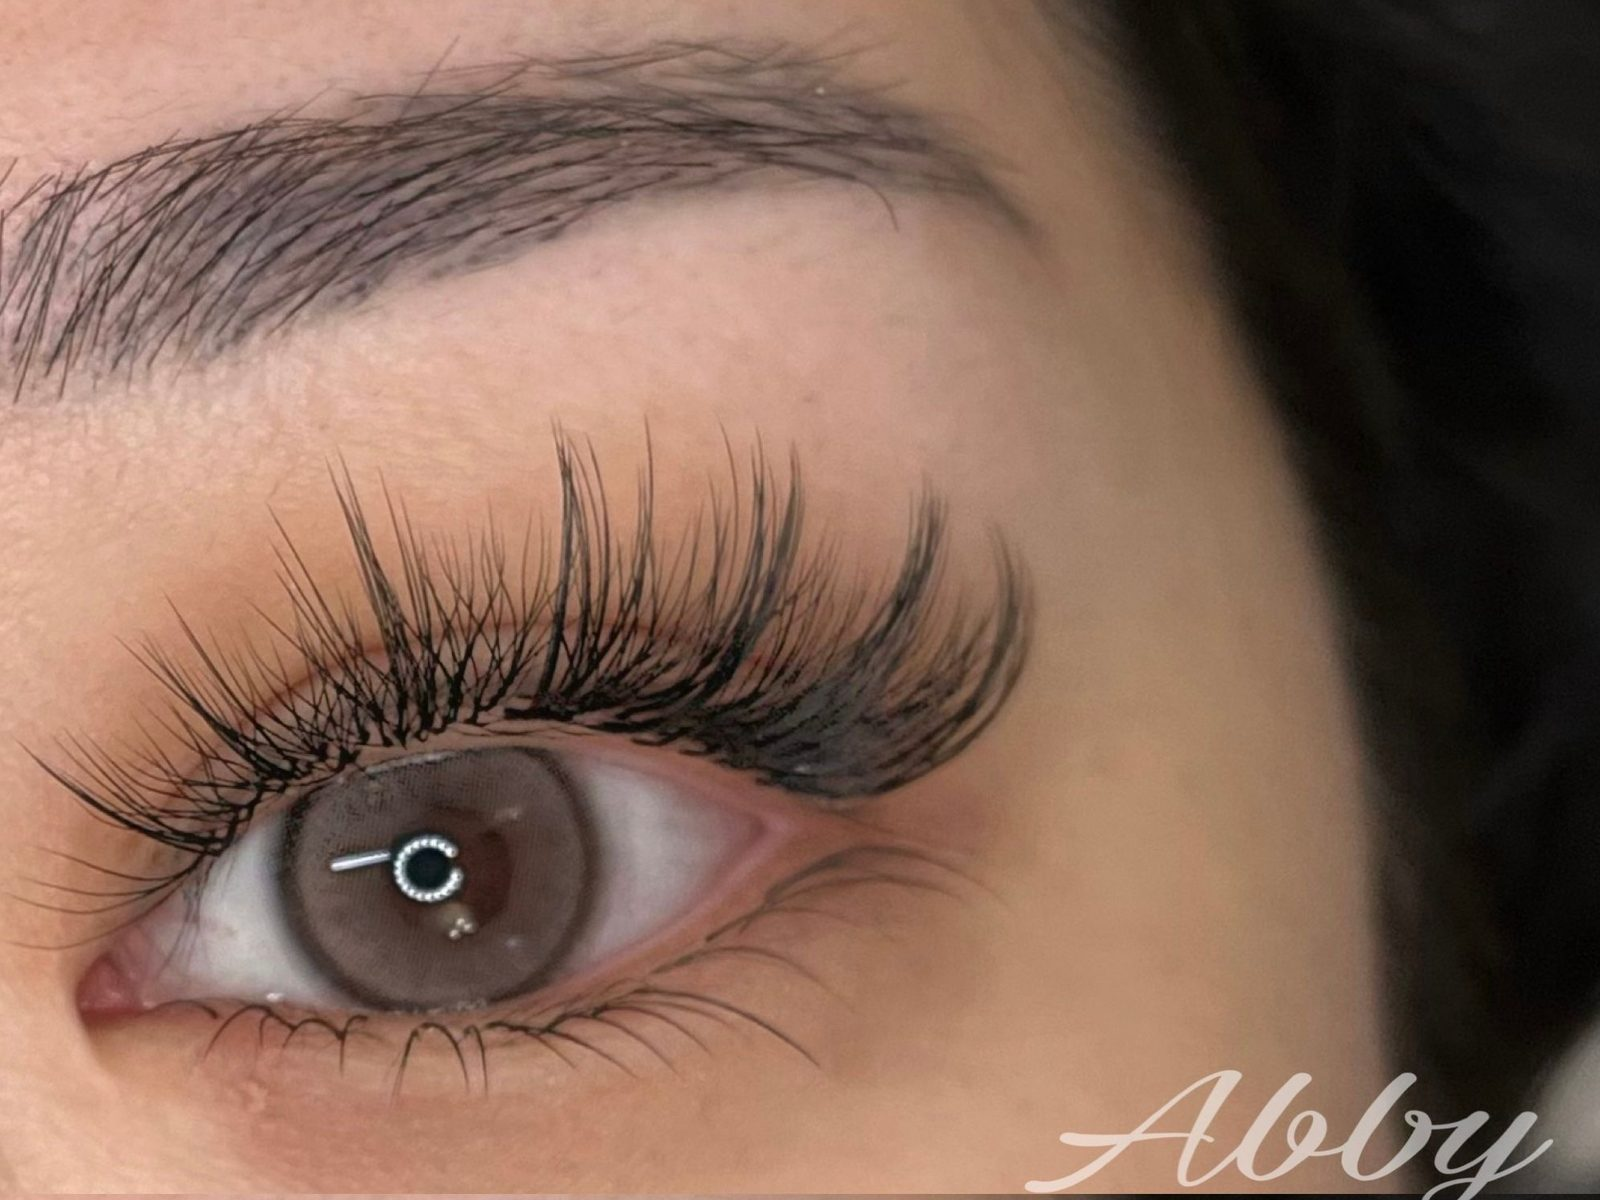
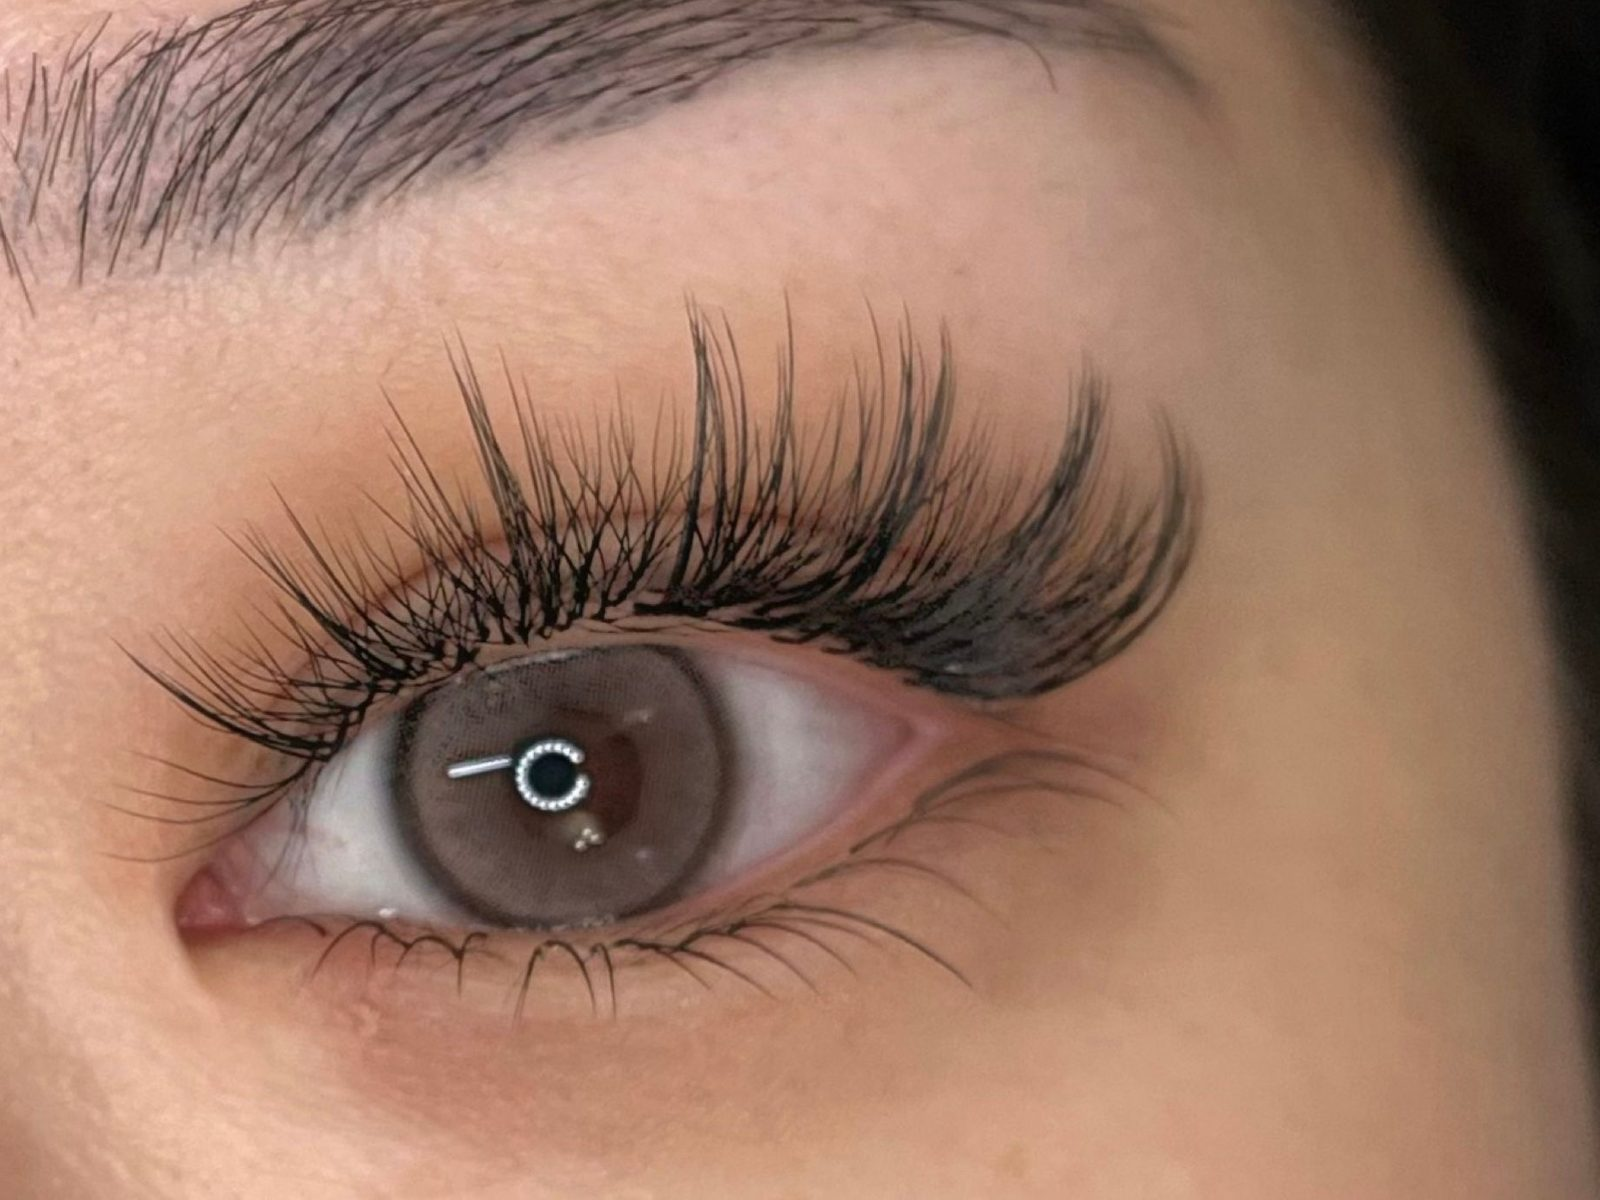
Fix service-slot crops, watermark re-crops, video pause control, manifest cleanup

diff --git a/src/data/photos.ts b/src/data/photos.ts
@@ -24,12 +24,9 @@ const nail = (n: string, source: string, en: string, zh: string, extra: Extra = 
 
 export const photos: Photo[] = [
   lash('classic-natural', '单根自然.jpg', 'Japanese classic natural lash extensions on a brown eye, Burwood', '棕色眼睛上的日式单根自然款嫁接睫毛，细密整齐，Burwood'),
-  lash('classic-natural-2', '单根自然2.JPG', 'Japanese classic natural lash extensions on a hazel eye, fine and evenly spaced', '榛色眼睛上的日式单根自然款嫁接睫毛，纤细均匀'),
   lash('classic-full-bottom', '单根浓+下睫毛.JPG', 'Japanese classic full lash extensions with dense bottom lashes on a brown eye, Burwood', '棕色眼睛上的日式单根浓密款嫁接睫毛，搭配浓密下睫毛，Burwood'),
-  lash('classic-colour-bottom', '单根自然+彩色+下睫毛.JPG', 'Natural classic lash extensions with a blue accent lash at the outer corner and bottom lashes', '日式单根自然款嫁接睫毛，眼尾点缀蓝色睫毛，搭配下睫毛'),
   lash('hybrid-natural', '轻盈-自然.jpg', 'Light hybrid natural lash extensions with soft fanned tips on a grey-green eye, Burwood', '灰绿色眼睛上的开花轻盈自然款嫁接睫毛，睫毛尖柔和散开，Burwood'),
   lash('hybrid-full', '开花-浓密.JPG', 'Hybrid full volume lash extensions, long and dense with a fanned finish, Burwood', '开花浓密款嫁接睫毛，纤长浓密、根根散开，Burwood'),
-  lash('hybrid-full-2', '开花-浓密2.JPG', 'Hybrid full volume lash extensions on a light brown eye, sweeping toward the outer corner', '浅棕色眼睛上的开花浓密款嫁接睫毛，向眼尾自然拉长'),
   lash('hybrid-full-bottom', '开花-浓密+下睫毛.JPG', 'Hybrid full volume lash extensions with fine bottom lashes on a dark brown eye', '深棕色眼睛上的开花浓密款嫁接睫毛，搭配纤细下睫毛', { ratio: '4:3' }),
   lash('styled-fairy', '造型款-仙子.JPG', 'Fairy styled lash set with a few long wispy spikes on top, Burwood', '仙子造型款嫁接睫毛，上睫毛间插几根纤长尖翘的长毛，Burwood'),
   lash('styled-layered', '造型款-单根层次.JPG', 'Layered classic styled lash set, fine single lashes in staggered lengths', '单根层次造型款嫁接睫毛，纤细单根长短错落'),
@@ -38,10 +35,10 @@ export const photos: Photo[] = [
   lash('styled-manga', '造型款-漫画.JPG', 'Manga styled lash set with spiky, defined lash clusters on a hazel eye', '榛色眼睛上的漫画造型款嫁接睫毛，睫毛簇分明、根根尖翘', { box: { left: 0, top: 0, width: 0.64, height: 0.5 } }),
   lash('styled-liner', '造型款-眼线加浓.JPG', 'Liner-effect thickened styled lash set, dense and dark along the lash line, on a blue-grey eye', '蓝灰色眼睛上的眼线加浓造型款嫁接睫毛，睫毛根部浓黑如眼线'),
   lash('styled-liner-2', '造型款-眼线加浓2.JPG', 'Liner-effect thickened styled lash set with dense lashes and defined brows, brown eye', '棕色眼睛上的眼线加浓造型款嫁接睫毛，睫毛浓密，眉形清晰'),
-  lash('styled-liner-bottom', '造型款-眼线加浓+下睫毛.JPG', 'Liner-effect styled lash set with dense top and bottom lashes on a dark brown eye', '深棕色眼睛上的眼线加浓造型款嫁接睫毛，上下睫毛浓密', { box: { left: 0.02, top: 0, width: 0.8, height: 0.52 } }),
+  lash('styled-liner-bottom', '造型款-眼线加浓+下睫毛.JPG', 'Liner-effect styled lash set with dense top and bottom lashes on a dark brown eye', '深棕色眼睛上的眼线加浓造型款嫁接睫毛，上下睫毛浓密', { box: { left: 0.08, top: 0.56, width: 0.68, height: 0.44 } }),
   lash('styled-sunflower', '造型款-太阳花+下睫毛.JPG', 'Sunflower styled lash set with radiating long lashes and bottom lashes', '太阳花造型款嫁接睫毛，长睫毛向外放射，搭配下睫毛'),
   lash('styled-pompom', '造型款-小绒花+下睫毛.JPG', 'Little pompom styled lash set with long, spiky wispy lashes, worn with a lilac face mask', '戴着淡紫色口罩的客人，小绒花造型款嫁接睫毛，睫毛纤长尖翘'),
-  lash('styled-bottom', '造型款+下睫毛.jpg', 'Styled lash set with long, flared top lashes and bottom lashes', '造型款嫁接睫毛，上睫毛纤长向外散开，搭配下睫毛', { box: { left: 0.06, top: 0, width: 0.92, height: 0.504 } }),
+  lash('styled-bottom', '造型款+下睫毛.jpg', 'Styled lash set with long, flared top lashes and bottom lashes', '造型款嫁接睫毛，上睫毛纤长向外散开，搭配下睫毛', { box: { left: 0.02, top: 0.55, width: 0.86, height: 0.45 } }),
   lash('styled-bottom-2', '造型款+下睫毛2.JPG', 'Styled lash set with spiky, dark top lashes and defined bottom lashes on a brown eye', '棕色眼睛上的造型款嫁接睫毛，上睫毛浓黑尖翘，下睫毛分明'),
   lash('styled-close', '造型款.JPG', 'Close-up of a styled lash set with long, dark, criss-crossed lashes on a green-brown eye', '绿棕色眼睛上的造型款嫁接睫毛特写，睫毛浓黑纤长、交错有致'),
   lash('selfie', '造型款.HEIC', "Client's face close-up showing dark, wispy styled lash extensions", '客人面部近景，展示深色纤长的造型款嫁接睫毛', { ratio: '3:4' }),
@@ -132,12 +129,21 @@ export const styledLooks: { photo: string; name: L10n }[] = [
   { photo: 'styled-close', name: { en: 'Styled close-up', zh: '造型款特写' } },
 ];
 
-export const servicePhotos: Record<string, { hero?: string; detail?: string; beforeAfter?: [string, string] }> = {
-  'lash-extensions': { hero: 'styled-mermaid-selfie', detail: 'hybrid-full-bottom' },
-  'lash-lift': { hero: 'lift-2', beforeAfter: ['lift-1', 'lift-3'] },
-  'gel-nails': { hero: 'nail-3406', detail: 'nail-2020' },
-  'handcrafted-nails': { hero: 'nail-8351', detail: 'nail-4630' },
-  'nail-extensions': { hero: 'nail-2112', detail: 'nail-6920' },
+/** Per service slot: manifest photo, optional object-position, optional literal aspect classes (default in ServicePage). */
+export interface ServiceSlots {
+  hero?: string; heroPos?: string; heroAspect?: string;
+  detail?: string; detailPos?: string; detailAspect?: string;
+  beforeAfter?: [string, string];
+}
+// Slots follow the master's ratio (4:3 lash, 3:4 nails shown 4:5) so no eye, nail or watermark is cropped. Literal classes so Tailwind sees them.
+const LASH = 'aspect-[4/3]';
+const NAIL = 'aspect-[4/5]';
+export const servicePhotos: Record<string, ServiceSlots> = {
+  'lash-extensions': { hero: 'styled-mermaid-selfie', heroAspect: NAIL, heroPos: '50% 0%', detail: 'hybrid-full-bottom', detailAspect: LASH },
+  'lash-lift': { hero: 'lift-2', heroAspect: LASH, beforeAfter: ['lift-1', 'lift-3'] },
+  'gel-nails': { hero: 'nail-3406', heroAspect: NAIL, detail: 'nail-2020', detailAspect: NAIL },
+  'handcrafted-nails': { hero: 'nail-8351', heroAspect: NAIL, heroPos: '50% 100%', detail: 'nail-4630', detailAspect: NAIL },
+  'nail-extensions': { hero: 'nail-2112', heroAspect: NAIL, heroPos: '50% 100%', detail: 'nail-6920', detailAspect: NAIL },
 };
 
 export const homeHero = 'selfie';

diff --git a/src/data/service-content.ts b/src/data/service-content.ts
@@ -19,7 +19,7 @@ export interface ServiceContent {
   intro: string;
   sections: Section[];
   faq: { q: string; a: string }[];
-  alt: { hero: string; detail: string };
+  alt?: { hero: string; detail: string }; // placeholder slots only (powder brows); photos use their manifest alt
 }
 
 const opt = (s: string, o: string) => {
@@ -156,10 +156,6 @@ const content: Record<string, Record<Lang, ServiceContent>> = {
         { q: 'I reacted to lash glue before. Can I still have extensions?', a: 'Tell Abby before booking so she can advise you. Abby doesn’t offer patch tests; after a significant reaction, extensions may not be right for you.' }, // OWNER-REVIEW
         CANCEL.en,
       ],
-      alt: {
-        hero: 'Close-up of a Japanese classic eyelash extension set applied by Abby at her Burwood studio',
-        detail: 'Abby isolating a single natural lash with tweezers while applying an extension',
-      },
     },
     zh: {
       title: '宝活 Burwood 嫁接睫毛 | Abby Eyelash 美睫',
@@ -236,10 +232,6 @@ const content: Record<string, Record<Lang, ServiceContent>> = {
         { q: '以前对睫毛胶过敏，还能做吗？', a: '请在预约前告诉 Abby，她会给你建议。Abby 不提供皮试；如果以前反应比较严重，嫁接睫毛可能不适合你。' }, // OWNER-REVIEW
         CANCEL.zh,
       ],
-      alt: {
-        hero: 'Abby 在 Burwood 工作室完成的日式单根嫁接睫毛近照',
-        detail: 'Abby 用镊子分离单根真睫毛并进行嫁接',
-      },
     },
   },
 
@@ -307,10 +299,6 @@ const content: Record<string, Record<Lang, ServiceContent>> = {
         { q: 'My lashes are short. Will a lift work?', a: 'Lashes need enough length to wrap onto the shield. Abby checks this at the start and will tell you honestly if a lift won’t show much.' },
         CANCEL.en,
       ],
-      alt: {
-        hero: 'Natural lashes curled upward after a keratin lash lift at Abby Eyelash, Burwood',
-        detail: 'Lashes combed onto a silicone shield during a lash lift',
-      },
     },
     zh: {
       title: '宝活 Burwood 角蛋白翘睫 | Abby Eyelash',
@@ -375,10 +363,6 @@ const content: Record<string, Record<Lang, ServiceContent>> = {
         { q: '睫毛很短也能做吗？', a: '睫毛需要有一定长度才能贴到硅胶垫上。Abby 开始前会先看，如果效果不明显会直接告诉你。' },
         CANCEL.zh,
       ],
-      alt: {
-        hero: 'Abby Eyelash（Burwood）角蛋白翘睫后自然上翘的睫毛',
-        detail: '翘睫过程中睫毛被梳到硅胶垫上定型',
-      },
     },
   },
 
@@ -564,10 +548,6 @@ const content: Record<string, Record<Lang, ServiceContent>> = {
         { q: 'Can I have nail art on extensions?', a: `Yes. Add extensions when you book (${ext()} per nail).` },
         CANCEL.en,
       ],
-      alt: {
-        hero: 'Hand-painted floral nail art by Abby on short natural nails, Burwood',
-        detail: 'Abby painting fine line art on a nail with a detail brush',
-      },
     },
     zh: {
       title: '宝活 Burwood 手绘造型美甲 | Abby Eyelash',
@@ -625,10 +605,6 @@ const content: Record<string, Record<Lang, ServiceContent>> = {
         { q: '延长甲上可以画图案吗？', a: `可以，预约时加选延长即可（每只 ${ext()}）。` },
         CANCEL.zh,
       ],
-      alt: {
-        hero: 'Abby 在 Burwood 为自然短甲手绘的小花美甲',
-        detail: 'Abby 用细笔在指甲上手绘线条图案',
-      },
     },
   },
 
@@ -690,10 +666,6 @@ const content: Record<string, Record<Lang, ServiceContent>> = {
         { q: 'Can I add length?', a: `Yes. Add extensions when you book: ${ext()} per nail, on any finish.` },
         CANCEL.en,
       ],
-      alt: {
-        hero: 'Glossy gel nails on short rounded nails, Abby Eyelash Burwood',
-        detail: 'Gel being cured under an LED nail lamp',
-      },
     },
     zh: {
       title: '宝活 Burwood 凝胶美甲 | 猫眼 · 极光 · 法式 | Abby Eyelash',
@@ -752,10 +724,6 @@ const content: Record<string, Record<Lang, ServiceContent>> = {
         { q: '可以加长吗？', a: `可以，预约时加选延长，每只 ${ext()}，任何款式都可以加。` },
         CANCEL.zh,
       ],
-      alt: {
-        hero: 'Abby Eyelash（Burwood）完成的亮面凝胶美甲，短圆甲型',
-        detail: '凝胶在 LED 美甲灯下照灯固化',
-      },
     },
   },
 
@@ -816,10 +784,6 @@ const content: Record<string, Record<Lang, ServiceContent>> = {
         { q: 'How do I book extensions?', a: 'On the booking page choose Gel Nails or Hand-painted Nail Art, pick your design, then set how many nails to extend.' },
         CANCEL.en,
       ],
-      alt: {
-        hero: 'Almond-shaped nail extensions in a soft pink gel finish, Abby Eyelash Burwood',
-        detail: 'A nail tip being shaped during an extension appointment',
-      },
     },
     zh: {
       title: '宝活 Burwood 延长甲 | 每只 $6 | Abby Eyelash',
@@ -877,10 +841,6 @@ const content: Record<string, Record<Lang, ServiceContent>> = {
         { q: '怎么预约延长甲？', a: '在预约页选凝胶美甲或手绘造型，选好款式后再选要延长几只。' },
         CANCEL.zh,
       ],
-      alt: {
-        hero: 'Abby Eyelash（Burwood）完成的杏仁形淡粉色延长甲',
-        detail: '延长甲过程中为甲片塑形',
-      },
     },
   },
 };

diff --git a/src/i18n/common.ts b/src/i18n/common.ts
@@ -83,6 +83,7 @@ const en = {
     showAll: 'Show all 22',
     showLess: 'Show fewer',
     bookNails: 'Book nails →',
+    pauseVideo: 'Pause video',
   },
   reviews: {
     eyebrow: 'Client love',
@@ -208,6 +209,7 @@ const zh: Strings = {
     showAll: '看全部 22 款',
     showLess: '收起',
     bookNails: '约美甲 →',
+    pauseVideo: '暂停视频',
   },
   reviews: {
     eyebrow: '顾客口碑',

diff --git a/docs/IMAGE-PLACEHOLDERS.md b/docs/IMAGE-PLACEHOLDERS.md
@@ -2,6 +2,8 @@
 
 Abby's own photos are in place everywhere except the places below. Everything else is listed in `src/data/photos.ts`.
 
+To add a photo: edit `src/data/photos.ts`, then run `node scripts/photos.mjs ~/Desktop/abby-eyelash` (macOS is needed for HEIC, via `sips`).
+
 ## About collage (stock photos)
 
 These are free-licence stock photos from Unsplash (Unsplash License: free to use, no attribution required).
